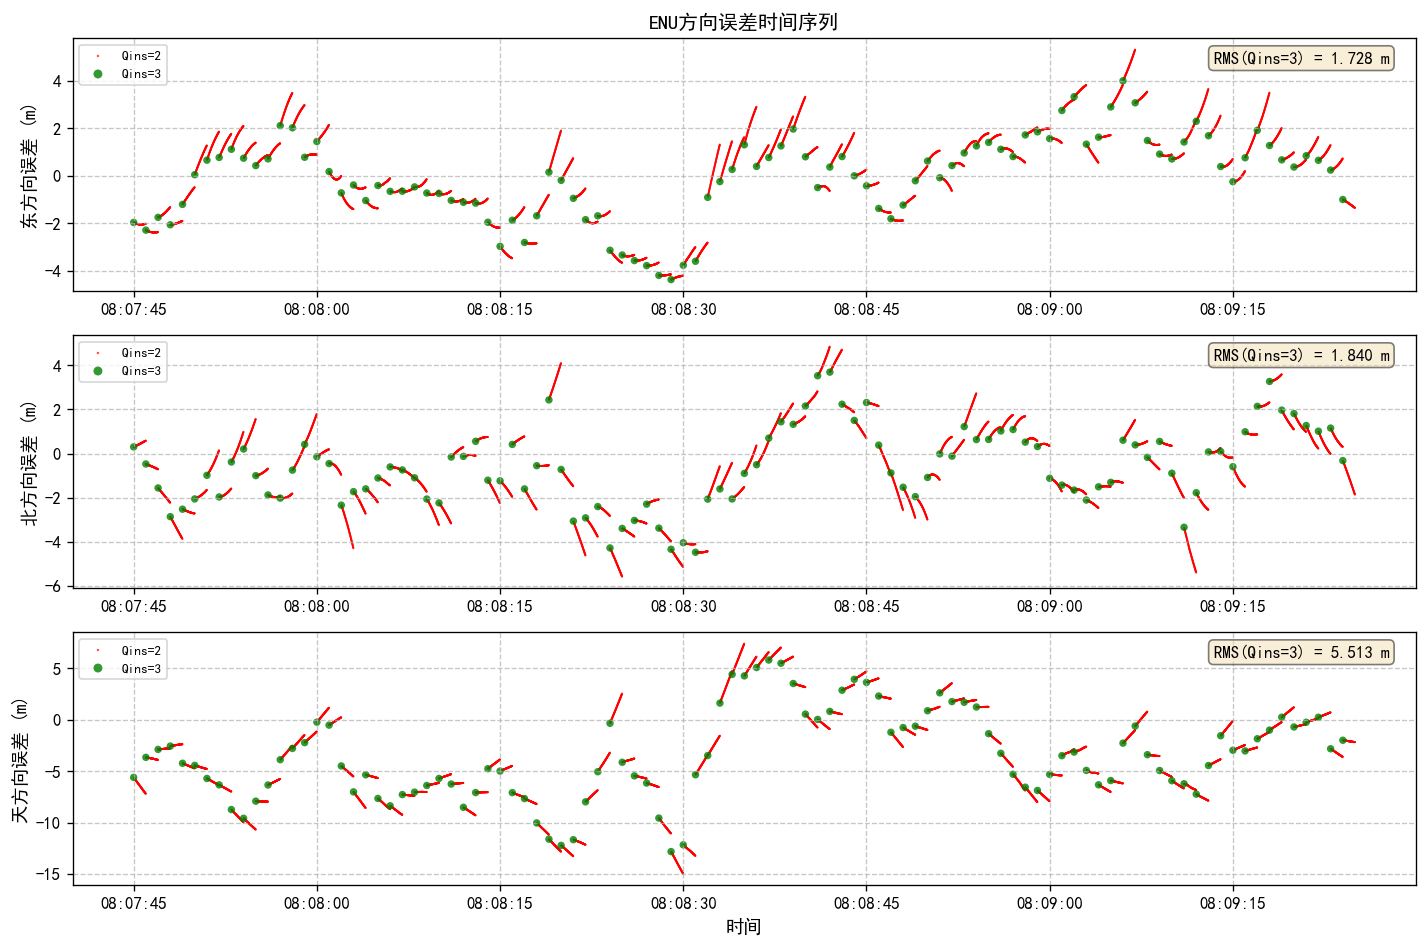
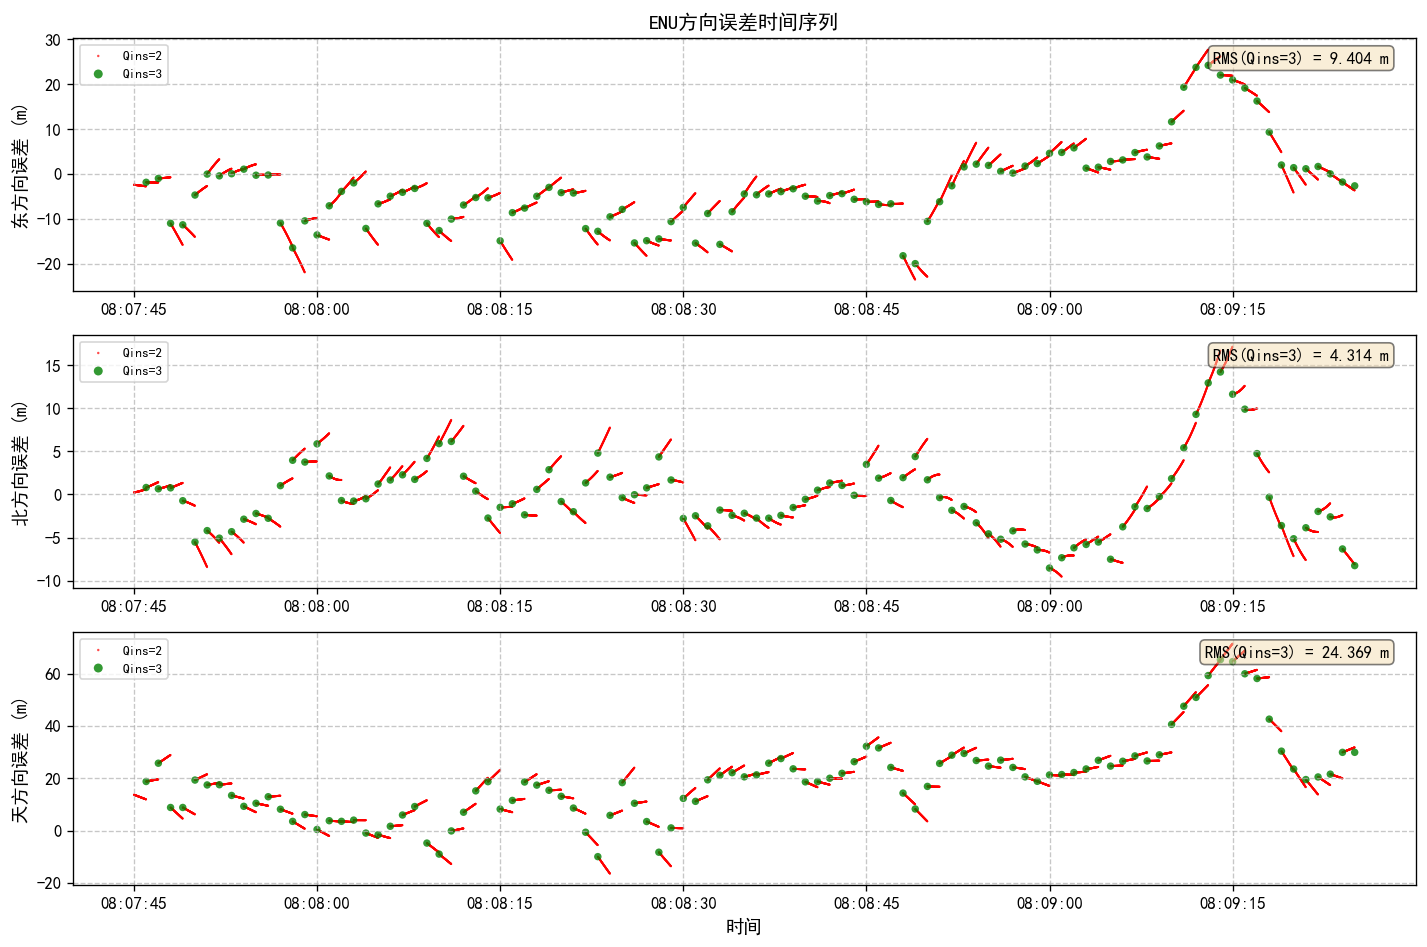
手机rtdtc初步修改

diff --git a/src/core/tc/tc_integration.py b/src/core/tc/tc_integration.py
@@ -518,11 +518,14 @@ class TcIntegration:
             if mode == "spp":
                 v, H, R, info = self._meas_builder.build(
                     self._est.state, obsr, nav, si, x=x)
-            else:   # rtk / rtd
+            elif mode == "rtk":
                 v, H, R, info = self._meas_builder.build(
                     self._est.state, obsr, nav, si, x=x, obsb=obsb,
                     P=self._est.P, amb_init_target=self._est,
                     previous_obs_t=previous_obs_t)
+            else:   # rtd
+                v, H, R, info = self._meas_builder.build(
+                    self._est.state, obsr, nav, si, x=x, obsb=obsb)
         except Exception as e:
             logger.warning(f"TC meas build 异常 (mode={mode}): {e}")
             self._degrade.on_fail(self._est, "build_error")

diff --git a/README.md b/README.md
@@ -39,8 +39,8 @@ python3 src/main.py data/config.yaml
 
 输出文件生成在 `data/output/` 目录下：
 - `RTK.pos`：纯 GNSS 定位结果（1Hz）
-- `RTKLC.rslt`：松组合导航结果（100Hz，含位置/速度/姿态）
-- `RTKTC.rslt`：紧组合导航结果（100Hz）
+- `RTKLC.rslt`：松组合导航结果
+- `RTKTC.rslt`：紧组合导航结果
 
 ### 精度评估
 
@@ -109,7 +109,7 @@ gipylib/
 - [GINav](https://github.com/kaichen686/GINav)：MATLAB 组合导航
 - [GREAT-MSF](https://github.com/GREAT-WH-UAV/GREAT-MSF)：C++ 多传感器融合框架
 - [GVINS](https://github.com/HKUST-Aerial-Robotics/GVINS)：GNSS-Visual-Inertial 紧组合
-- [ignav](https://github.com/rtkgps/ignav)：C 语言 GNSS/INS 组合导航
+- [ignav](https://github.com/rtkgps/ignav)： GNSS/INS 组合导航
 - [KF-GINS](https://github.com/i2Nav-WHU/KF-GINS)：C++ 卡尔曼滤波组合导航
 - [pyrinex](https://github.com/geospace-code/pyrinex)：Python RINEX 解析
 - [rtklib-py](https://github.com/rtklib-py/rtklib-py)：Python 版 RTKLIB
@@ -118,7 +118,7 @@ gipylib/
 
 - 不支持 PPP（精密单点定位）
 - 频率选取部分简化处理，不够专业
-- 多系统 + 双频 + 紧组合的 RTK 模糊度固定解算较慢，实时性不足，仅支持后处理
+- 仅支持后处理
 - 作者水平有限（在读研究生），如有问题欢迎反馈交流
 
 ## 建议
